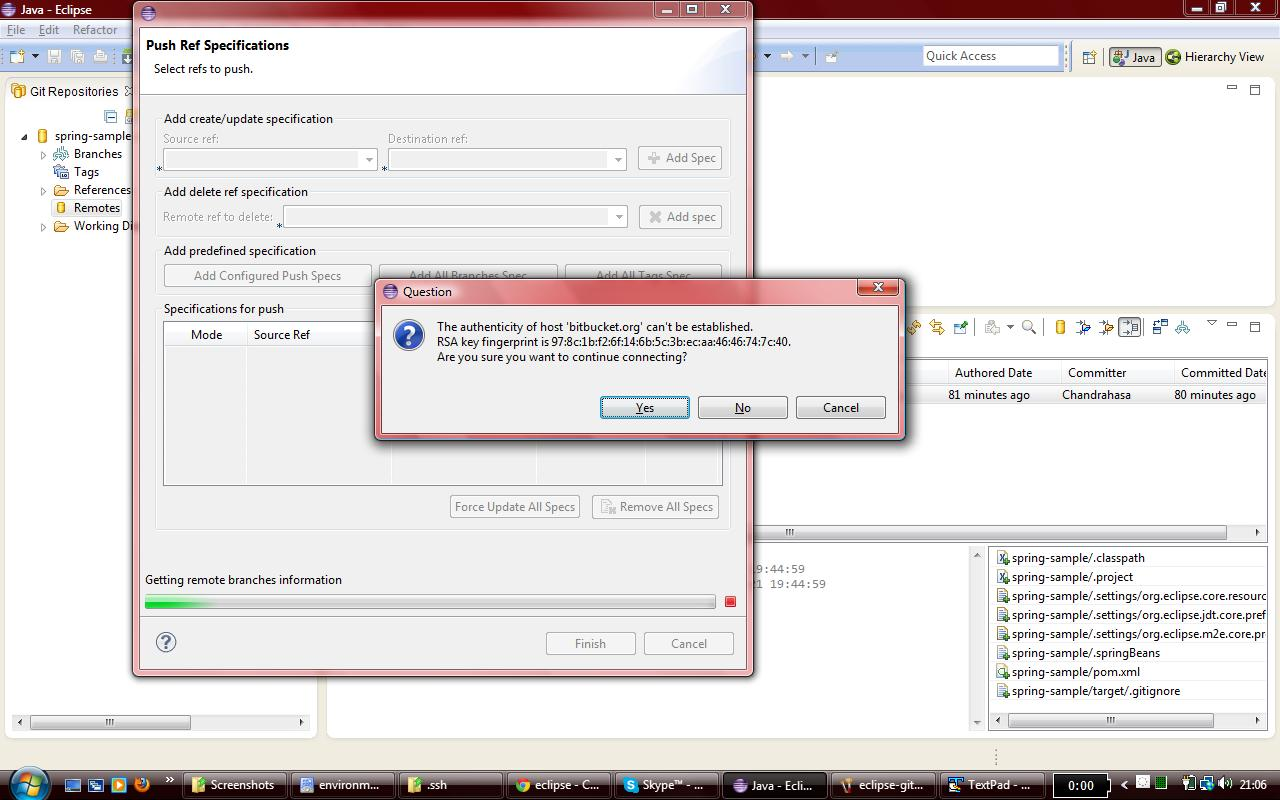
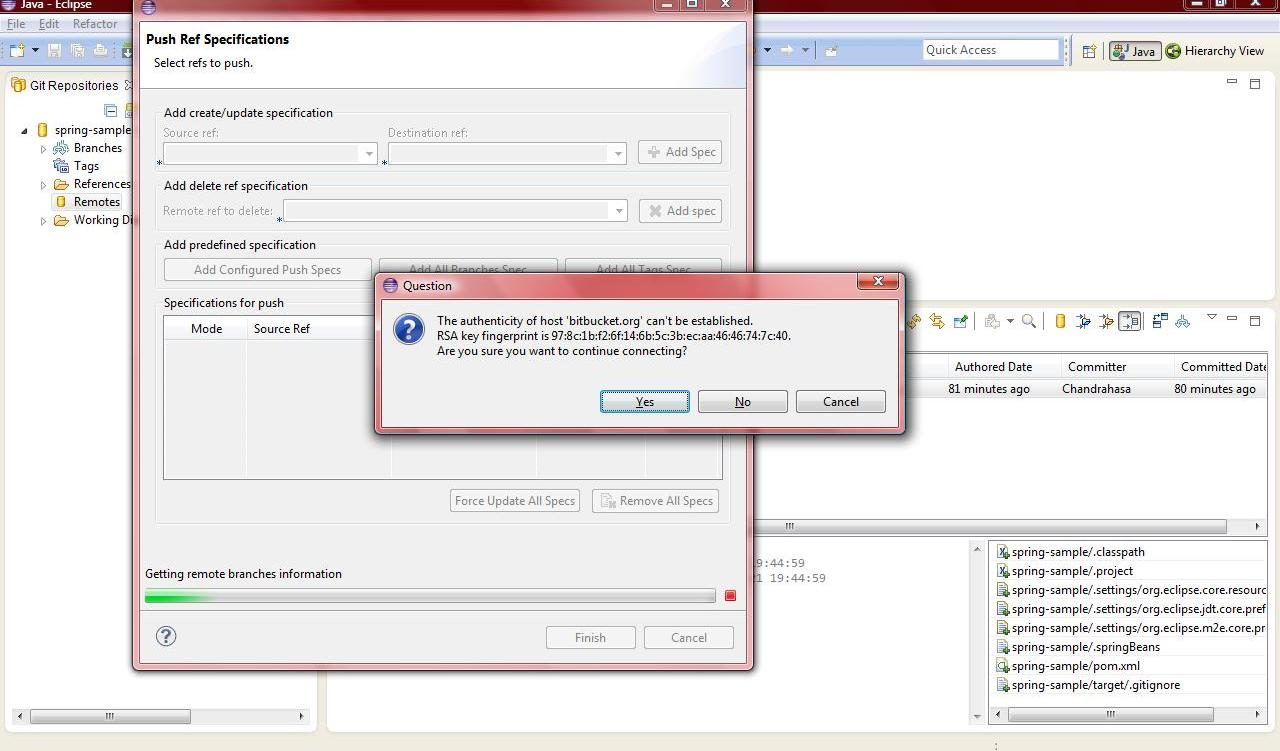
Site updated at 2013-07-24 10:41:48 UTC

diff --git a/blog/2013/07/24/pushing-local-git-repositories-to-both-bitbucket-and-github-using-egit/index.html b/blog/2013/07/24/pushing-local-git-repositories-to-both-bitbucket-and-github-using-egit/index.html
@@ -186,8 +186,9 @@
 <li>Click <code>Advanced</code> to specify <code>Push Ref Specifications</code>
 
 <blockquote><p>You will get an warning message <strong>Known Hosts doesn&rsquo;t exist, do u want to create it</strong>. Click <code>Yes</code>.</p></blockquote></li>
-<li>In <code>Push Ref Specification</code> dialog box, click <code>Add All Brannches to Spec</code> and click <code>Finish</code></li>
-<li>Click <code>Save and Push</code></li>
+<li>In <code>Push Ref Specification</code> dialog box, click <code>Add All Brannches to Spec</code>. You may get warning message like the following. Just click <code>Yes</code>.
+<img class="centre" src="/images/eclipse-git-add-remote-warning.jpg" width="650" height="350" title="image" alt="images"></li>
+<li>Click <code>Finish</code> and Click <code>Save and Push</code></li>
 </ul>
 </li>
 </ul>
